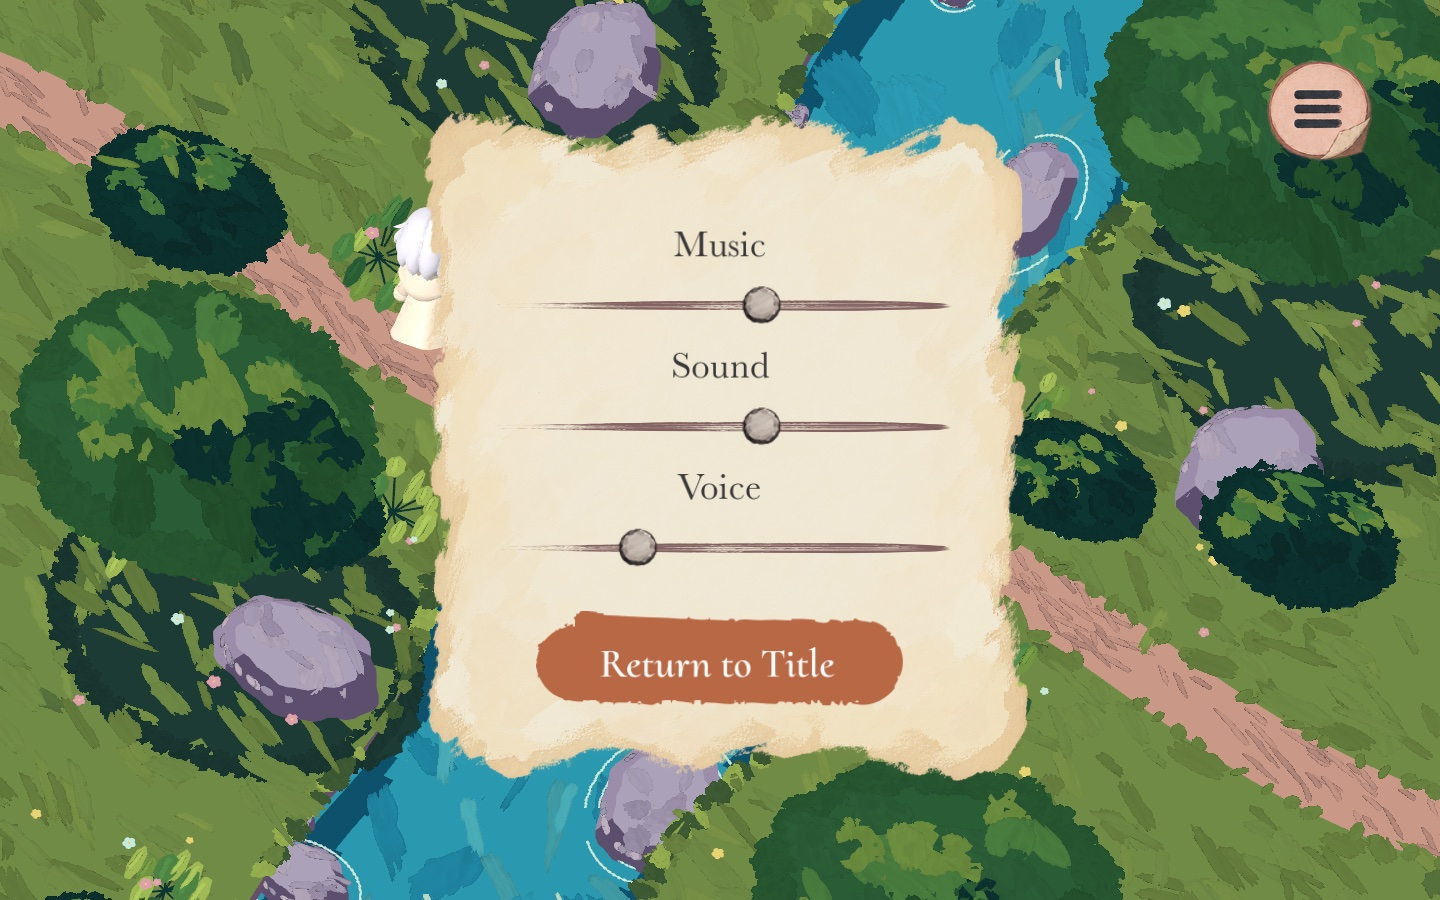
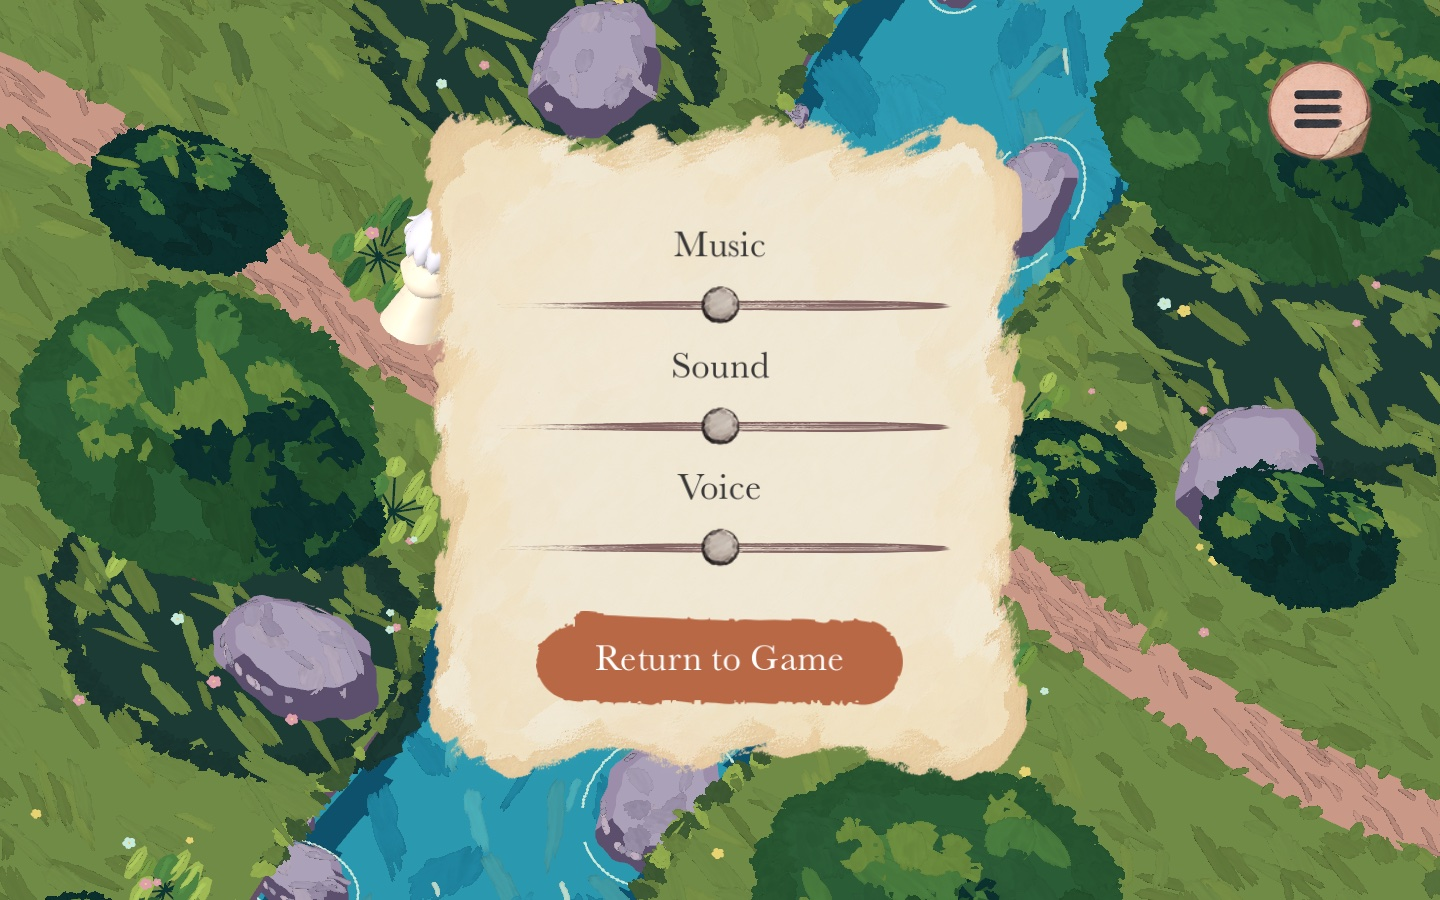
Resume gameplay from the menu and center audio defaults (#85)

diff --git a/docs/3d_game/STORYBOOK_UI.md b/docs/3d_game/STORYBOOK_UI.md
@@ -16,9 +16,13 @@ Draw/Talk controls and permanent instruction labels. This is the UI portion of
   automatic final-transcript submission are retained. Drawing is disabled during
   the conversation. These changes do not add a typed chat or a transcript history.
 - The menu is centered, with Music, Sound and Voice sliders and the three supplied
-  Return to Title button states. The content stack is vertically centered, with
+  painted button states with a live Return to Game label. All three volume sliders
+  default to 50%, including the actual speech player. The CTA closes the menu and
+  resumes the current position, encounter and drawing, just like the corner circle.
+  The content stack is vertically centered, with
   extra top/bottom paper padding; the panel grows equally around its center when
-  font metrics or the unmute control increase its minimum size. Opening it hides all chapter canvas layers and
+  font metrics or the unmute control increase its minimum size. Opening it hides
+  all chapter canvas layers and
   the narrator/player UI, leaving the menu and its top-right toggle visible.
   Closing it restores prior visibility and input modes, including active drawing.
   Narration pauses while the menu is open. An in-progress microphone recording is
@@ -58,7 +62,8 @@ explicitly to exercise the post-gift state, without claiming the quest is comple
 
 User-supplied `Downloads/UI Assets` and `Downloads/UI Assets 2`, provided on
 September 14, 2026. In-game copies are under `3d_game/ui/storybook/` with English
-filenames. No external image generation was used. SVGs containing embedded bitmap
+filenames. No external image generation was used. The original return-button letter outlines are removed from the in-game SVGs
+and replaced with a live English label matching the resume action. SVGs containing embedded bitmap
 sheets were flattened at their authored crop; vector-only menu tracks and return
 buttons remain SVG. The baked play triangle in the narrator paper was removed
 using adjacent paper to match the supplied blank-frame reference. Original
@@ -88,8 +93,8 @@ Godot 4.7.2, desktop Forward+ on Apple M1, using offline scripted fixtures only:
   reopened it, Down selected Return to Title, and another Space restarted the
   journey. The test reproduces that opening-map reset before the fix. Closing the
   menu now releases focus owned by its controls; the same movement/jump sequence
-  stays in Chapter 2. Explicit keyboard navigation inside an open menu still
-  reaches Return to Title and starts a new journey.
+  stays in Chapter 2. The menu CTA now resumes gameplay, following the later user correction; its
+  keyboard activation preserves the collected dog encounter instead of resetting it.
 - Visual captures are under `docs/3d_game/assets/storybook-ui/`.
 
 The older `dog_encounter_smoke.gd` still fails expectations for manual offering,

diff --git a/docs/SPEC.md b/docs/SPEC.md
@@ -1207,7 +1207,9 @@ once the Chapter 4 gift unlocks it; the gift implementation calls
 `Journey.grant_microphone()` after the microphone reveal finishes.
 
 The centered menu uses supplied paper, brush tracks and return-button states, with
-Music, Sound and Voice sliders. While open, hide all other UI and drawing content,
+Music, Sound and Voice sliders, each defaulting to 50%. The bottom CTA reads
+Return to Game and resumes the same scene, player position and encounter state.
+It does not open the map or restart the journey. While open, hide all other UI and drawing content,
 including test selectors and Back navigation; restore their previous state when
 closed. During exploration the existing model selectors and Back navigation remain
 below the menu circle. Chapter 5 moves the narrator paper into the center, reveals
